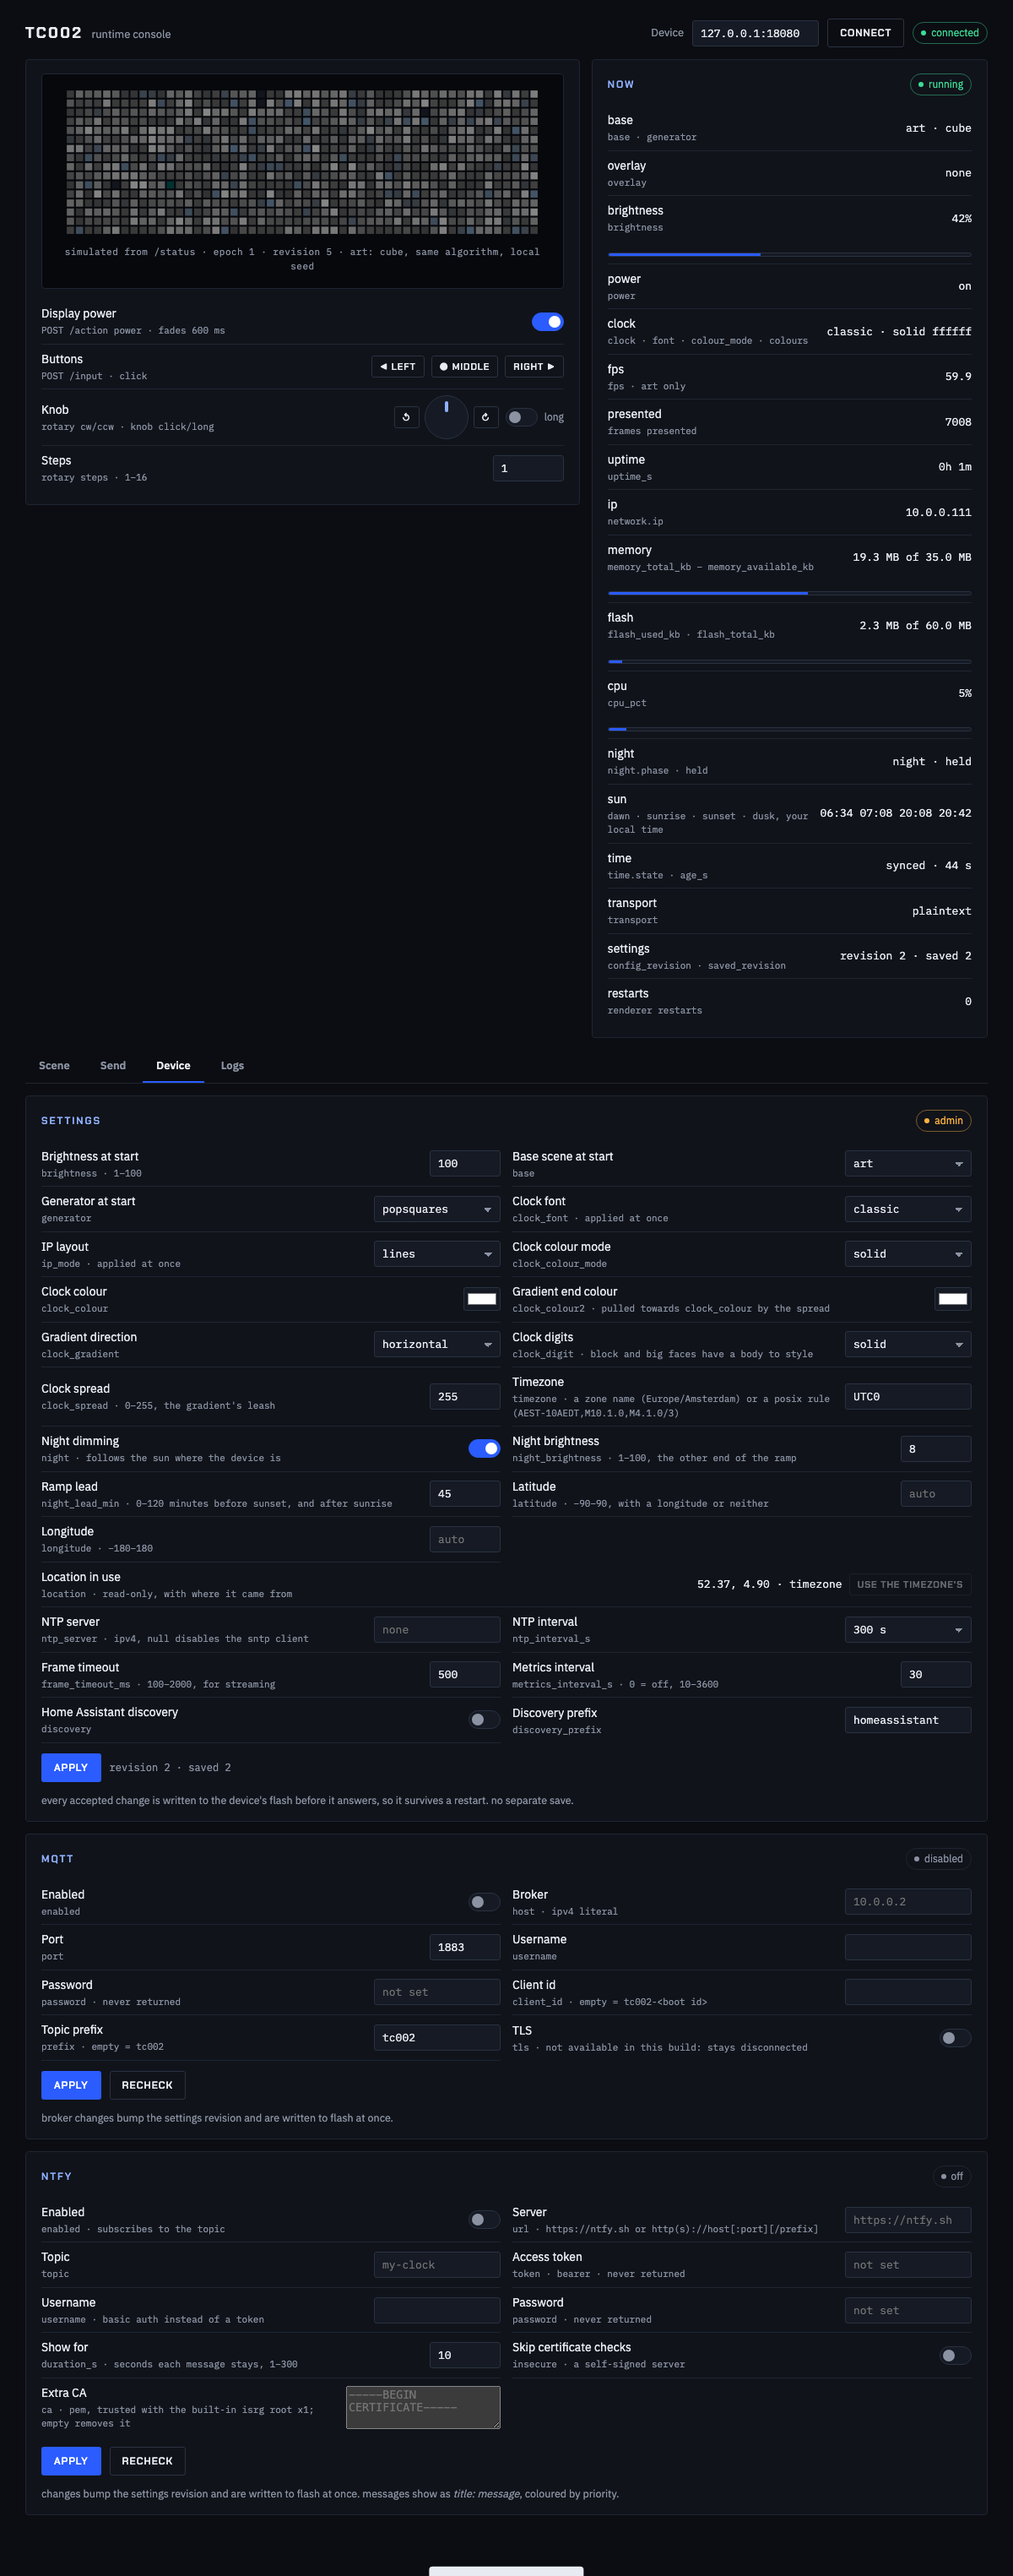
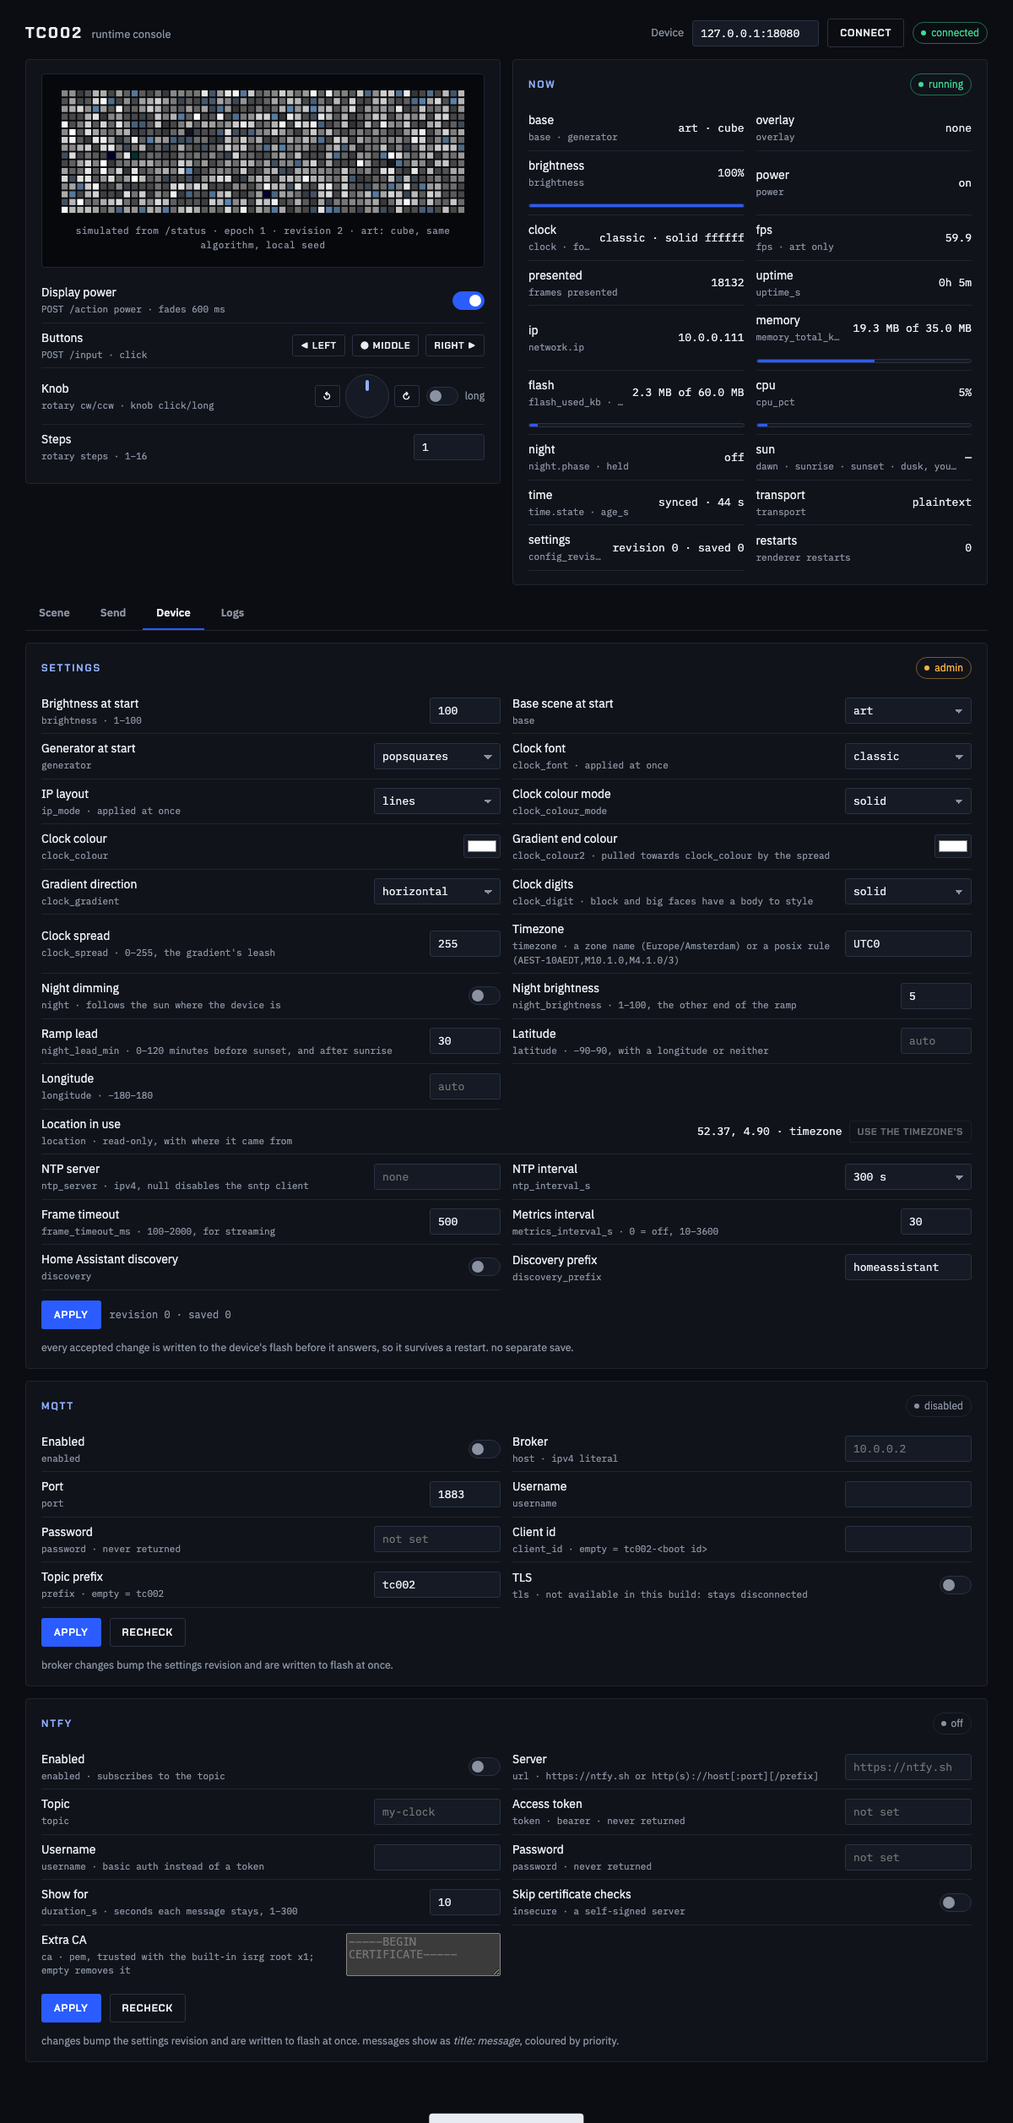
panel-v2: the readout reads as two columns, so the tabs clear the fold
the now card was the tallest thing on the page and pushed the tab bar off a laptop screen. above
1080 px of page width it is two columns and the hero splits evenly, which also gives the preview the
560 px the canvas is capped at anyway. the tab bar now sits at 707 px and the first rows of the
scene panel are visible on a 1440x900 screen; the whole page is 1349 px where it was 1885.

1080 is where each half of the readout still clears 260 px. at 950 px, two columns crushed the
clock, memory and settings labels to between 16 and 48 px — the layout tests caught it — so below
that threshold it stays a single column, as does every narrow layout.

two details that make the columns work: the 140 px label floor that wide forms need would wrap every
value in a 270 px cell, so it is lifted here, and the api-name line truncates with an ellipsis
rather than growing the row. the full name is a hover away.

Claude-Session: https://claude.ai/code/session_0154EZ6adqhZyrJZmuD4WZcY

diff --git a/panel-v2/index.html b/panel-v2/index.html
@@ -166,6 +166,17 @@ input[type=file]{font:12px var(--body);color:var(--muted);max-width:220px}
 
 /* layout b: the hero stays, everything else is one tab at a time */
 .hero{align-items:start}
+/* the readout is the tallest thing on the page and it was pushing the tabs under the fold on a
+   laptop. above the stacking breakpoint it reads as two columns: the label floor that wide forms
+   need would wrap every value here, and the api-name line truncates rather than growing a row */
+@container (min-width:1080px){
+  /* 1080 is where each half of the readout still clears 260 px: below it the labels get crushed */
+  .hero{grid-template-columns:minmax(0,1fr) minmax(0,1fr)}   /* even: the canvas is capped at 560 px anyway */
+  .side .card .rows{display:grid;grid-template-columns:repeat(2,minmax(0,1fr));gap:0 var(--gap)}
+  .side .card .field{gap:10px}
+  .side .card .field>.lab{min-width:0}
+  .side .card .field .key{white-space:nowrap;overflow:hidden;text-overflow:ellipsis}
+}
 .heroscreen{display:flex;flex-direction:column;gap:10px}
 .heroscreen .quick{margin-top:2px}
 .tabbar{display:flex;gap:4px;margin:var(--gap) 0 0;border-bottom:1px solid var(--line);flex-wrap:wrap}
@@ -538,7 +549,9 @@ function renderNow(s) {
   for (const [label, fn, key, barFn] of NOW_ROWS) {
     const row = document.createElement('div'); row.className = 'field';
     const lab = document.createElement('span'); lab.className = 'lab'; lab.textContent = label;
-    const k = document.createElement('span'); k.className = 'key'; k.textContent = key; lab.append(k);
+    const k = document.createElement('span'); k.className = 'key'; k.textContent = key;
+    k.title = key;   // the two-column readout truncates these; the full name is a hover away
+    lab.append(k);
     const val = document.createElement('span'); val.className = 'val'; val.textContent = fn(s);
     row.append(lab, val);
     const bar = barFn && barFn(s);
